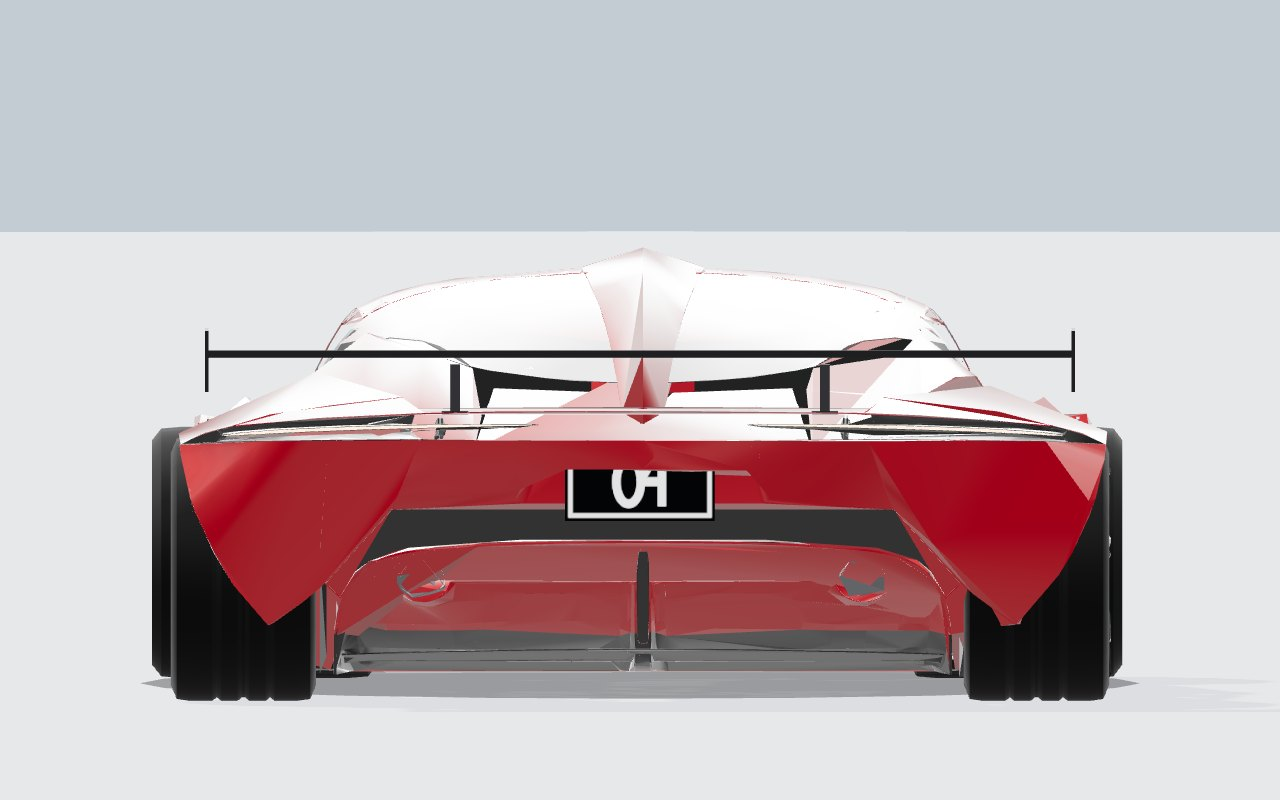
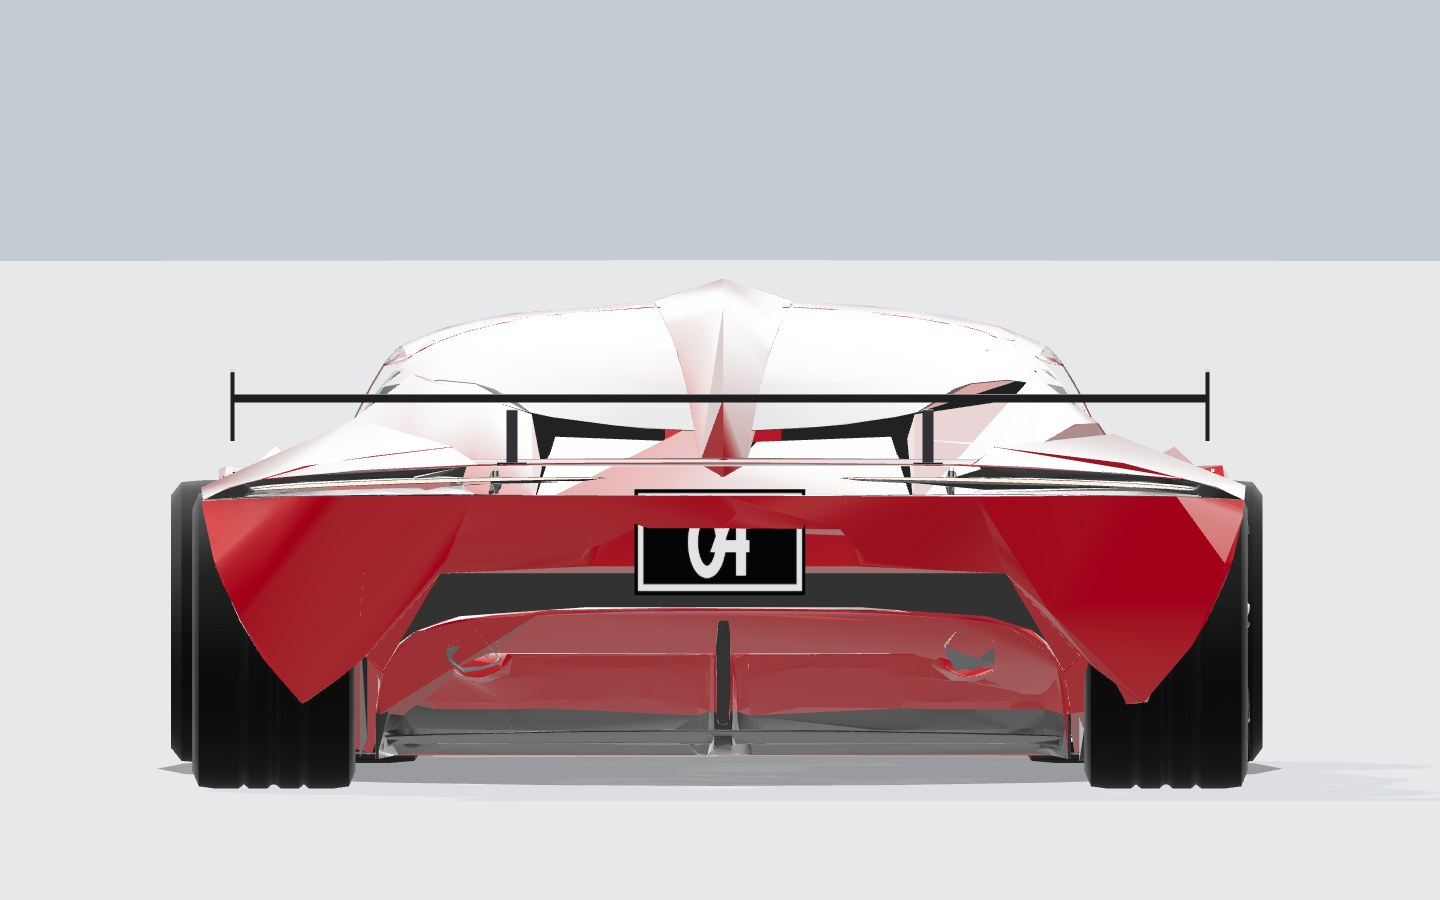
Make the Vanta rear 04 and the Aegis door 88 read cleanly.
Un-mirror the rear plate, drop the faint hood number, and replace the clipped Aegis door decals with flat plates clear of the body.

diff --git a/src/game/car-assets.ts b/src/game/car-assets.ts
@@ -346,13 +346,12 @@ function blankAegisBakedPlates(kept: THREE.MeshPhysicalMaterial): void {
          {
            vec3 p = vAegisPos;
            float nose = step(1.55, p.z) * step(p.z, 2.2) * step(0.08, p.y) * step(p.y, 0.6) * step(abs(p.x), 0.62);
-           float doorL = step(0.42, p.x) * step(p.x, 0.82) * step(0.18, p.y) * step(p.y, 0.52) * step(-0.05, p.z) * step(p.z, 0.5);
-           float doorR = step(-0.82, p.x) * step(p.x, -0.5) * step(0.18, p.y) * step(p.y, 0.52) * step(-0.35, p.z) * step(p.z, 0.25);
-           diffuseColor.rgb = mix(diffuseColor.rgb, vec3(${paint.r.toFixed(4)}, ${paint.g.toFixed(4)}, ${paint.b.toFixed(4)}), max(nose, max(doorL, doorR)));
+           float side = step(0.25, p.y) * step(p.y, 0.85) * step(-0.35, p.z) * step(p.z, 0.95) * step(0.4, abs(p.x));
+           diffuseColor.rgb = mix(diffuseColor.rgb, vec3(${paint.r.toFixed(4)}, ${paint.g.toFixed(4)}, ${paint.b.toFixed(4)}), max(nose, side));
          }`,
       );
   };
-  kept.customProgramCacheKey = () => "aegis-plates-v4";
+  kept.customProgramCacheKey = () => "aegis-plates-v6";
 }
 
 const plateTextures = new Map<string, THREE.CanvasTexture>();
@@ -381,12 +380,11 @@ function racePlateTexture(label: string, border: string): THREE.CanvasTexture {
     };
     const draw4 = (x: number) => {
       g.beginPath();
-      g.moveTo(x + 36, 48);
-      g.lineTo(x + 36, 208);
-      g.moveTo(x - 40, 128);
-      g.lineTo(x + 48, 128);
-      g.moveTo(x - 40, 128);
-      g.lineTo(x + 8, 48);
+      g.moveTo(x - 8, 52);
+      g.lineTo(x - 46, 138);
+      g.lineTo(x + 48, 138);
+      g.moveTo(x + 24, 52);
+      g.lineTo(x + 24, 208);
       g.stroke();
     };
     const draw5 = (x: number) => {
@@ -443,7 +441,8 @@ function dressVantaRearPlate(root: THREE.Object3D): void {
     let rear = false;
     for (const id of ids) {
       point.fromBufferAttribute(position, id);
-      if (point.z < -0.8) rear = true;
+      // Rear plate, and the faint hood number (local z > 0.4).
+      if (point.z < -0.8 || point.z > 0.4) rear = true;
     }
     if (!rear) {
       keep.push(ids[0]!, ids[1]!, ids[2]!);
@@ -453,21 +452,20 @@ function dressVantaRearPlate(root: THREE.Object3D): void {
   }
   mesh.geometry.setIndex(keep);
   if (box.isEmpty()) return;
-  mesh.updateWorldMatrix(true, false);
-  const worldCenter = box.getCenter(new THREE.Vector3()).applyMatrix4(mesh.matrixWorld);
+  const size = box.getSize(new THREE.Vector3());
+  const center = box.getCenter(new THREE.Vector3());
   const plate = new THREE.Mesh(
-    new THREE.PlaneGeometry(0.34, 0.22),
+    new THREE.PlaneGeometry(Math.max(0.12, size.x * 1.15), Math.max(0.08, size.y * 1.2)),
     new THREE.MeshBasicMaterial({
       map: racePlateTexture("04", "#f2f2f2"),
       side: THREE.DoubleSide,
     }),
   );
   plate.name = "rear-number";
-  root.updateWorldMatrix(true, false);
-  root.add(plate);
-  plate.position.copy(worldCenter).applyMatrix4(root.matrixWorld.clone().invert());
-  plate.position.z -= 0.015;
+  plate.frustumCulled = false;
+  plate.position.set(center.x, center.y, box.min.z - 0.012);
   plate.rotation.y = Math.PI;
+  mesh.add(plate);
 }
 
 function dressAegisNumbers(root: THREE.Object3D): void {
@@ -481,44 +479,20 @@ function dressAegisNumbers(root: THREE.Object3D): void {
   });
   if (!body) return;
   const mesh: THREE.Mesh = body;
-  const position = mesh.geometry.getAttribute("position");
-  const uv = mesh.geometry.getAttribute("uv");
-  const index = mesh.geometry.getIndex();
-  if (!position || !uv || !index) return;
-  const inDoor = (u: number, v: number) => u > 0.07 && u < 0.43 && v > 0.29 && v < 0.46;
-  const left = new THREE.Box3();
-  const right = new THREE.Box3();
-  const center = new THREE.Vector3();
-  for (let t = 0; t < index.count; t += 3) {
-    const ids = [index.getX(t), index.getX(t + 1), index.getX(t + 2)];
-    const u = (uv.getX(ids[0]!) + uv.getX(ids[1]!) + uv.getX(ids[2]!)) / 3;
-    const v = (uv.getY(ids[0]!) + uv.getY(ids[1]!) + uv.getY(ids[2]!)) / 3;
-    if (!inDoor(u, v)) continue;
-    center.set(0, 0, 0);
-    for (const id of ids) center.add(new THREE.Vector3().fromBufferAttribute(position, id));
-    center.multiplyScalar(1 / 3);
-    (center.x >= 0 ? left : right).expandByPoint(center);
-  }
-  const material = new THREE.MeshStandardMaterial({
+  const material = new THREE.MeshBasicMaterial({
     map: racePlateTexture("88", "#3ec6ff"),
-    roughness: 0.4,
-    metalness: 0.04,
-    polygonOffset: true,
-    polygonOffsetFactor: -2,
-    polygonOffsetUnits: -2,
+    side: THREE.FrontSide,
   });
-  const addDoor = (box: THREE.Box3) => {
-    if (box.isEmpty()) return;
-    const mid = box.getCenter(new THREE.Vector3());
-    const plate = new THREE.Mesh(new THREE.PlaneGeometry(0.46, 0.22), material);
+  // Sit just outside the door skin so the plate stays flat and fully visible.
+  const addDoor = (x: number) => {
+    const plate = new THREE.Mesh(new THREE.PlaneGeometry(0.4, 0.18), material);
     plate.name = "door-number";
-    const outward = mid.x >= 0 ? 1 : -1;
-    plate.position.set(mid.x + outward * 0.012, mid.y, mid.z);
-    plate.rotation.y = outward > 0 ? -Math.PI / 2 : Math.PI / 2;
+    plate.position.set(x, 0.56, 0.62);
+    plate.rotation.y = x > 0 ? Math.PI / 2 : -Math.PI / 2;
     mesh.parent?.add(plate);
   };
-  addDoor(left);
-  addDoor(right);
+  addDoor(0.99);
+  addDoor(-0.99);
   const hood = new THREE.Mesh(new THREE.PlaneGeometry(0.46, 0.2), material);
   hood.name = "nose-number";
   hood.position.set(0, 0.66, 1.5);
